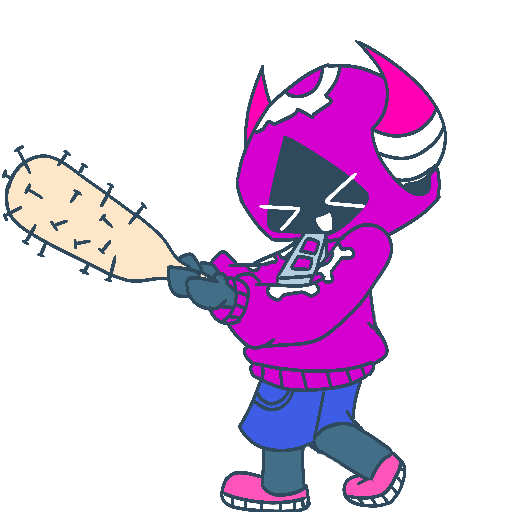
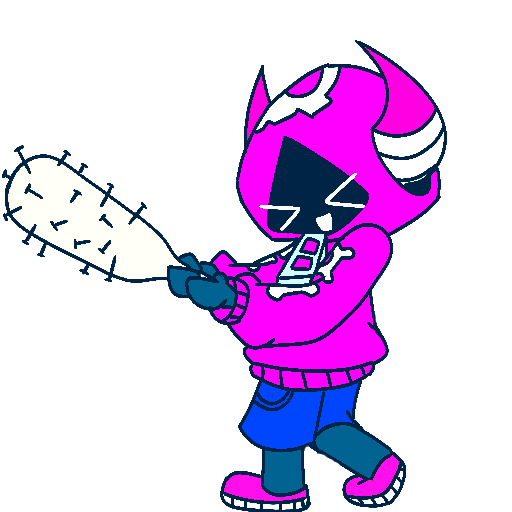
画像の色味の調整とready状態の追加

Changed region(s): [[0.0, 0.0625, 0.875, 1.0]]

diff --git a/src/chara.ts b/src/chara.ts
@@ -1,7 +1,7 @@
 import * as THREE from "three";
 import { getGameState, rootClock, scene } from "./main";
 
-type CharaState = "normal" | "swing" | "gameOver";
+type CharaState = "normal" | "ready" | "swing" | "gameOver";
 
 export let charaState: CharaState = "normal";
 
@@ -12,6 +12,8 @@ const normal2Texture = new THREE.TextureLoader().load("chara/normal2.png");
 const hitTexture = new THREE.TextureLoader().load("chara/hit.png");
 const overTexture = new THREE.TextureLoader().load("chara/over.png");
 const over2Texture = new THREE.TextureLoader().load("chara/over2.png");
+const readyTexture = new THREE.TextureLoader().load("chara/ready.png");
+const ready2Texture = new THREE.TextureLoader().load("chara/ready2.png");
 
 const spriteMaterialColor = "#ffffff";
 const normalMaterial = new THREE.SpriteMaterial({
@@ -50,6 +52,20 @@ const over2Material = new THREE.SpriteMaterial({
   alphaTest: 0.5,
   fog: false,
 });
+const readyMaterial = new THREE.SpriteMaterial({
+  map: readyTexture,
+  color: spriteMaterialColor,
+  transparent: true,
+  alphaTest: 0.5,
+  fog: false,
+});
+const ready2Material = new THREE.SpriteMaterial({
+  map: ready2Texture,
+  color: spriteMaterialColor,
+  transparent: true,
+  alphaTest: 0.5,
+  fog: false,
+});
 
 const sprite = new THREE.Sprite(normalMaterial);
 sprite.scale.set(6, 6, 1);
@@ -59,10 +75,39 @@ let spriteChangeStack = 0;
 export const addChara = () => {
   sprite.position.set(charaPos.x, charaPos.y, charaPos.z);
   scene.add(sprite);
-  charaNormal();
+  charaReady();
 };
 
 export const isLockedSpriteAmongSwing = false;
+
+export const charaReady = () => {
+  const changeSpan = 1;
+  const timeTriggered = rootClock.getElapsedTime();
+  let timeChanged = timeTriggered;
+  let isSpriteTwo = false;
+  sprite.material = readyMaterial;
+  charaState = "ready";
+
+  const spriteChange = () => {
+    console.log();
+    if (charaState === "ready") {
+      requestAnimationFrame(spriteChange);
+
+      if (rootClock.getElapsedTime() - timeChanged > changeSpan) {
+        timeChanged = rootClock.getElapsedTime();
+        if (isSpriteTwo) {
+          isSpriteTwo = false;
+          sprite.material = readyMaterial;
+        } else {
+          isSpriteTwo = true;
+          sprite.material = ready2Material;
+        }
+      }
+    }
+  };
+
+  spriteChange();
+};
 
 export const charaNormal = () => {
   const changeSpan = 1;

diff --git a/src/countdown.ts b/src/countdown.ts
@@ -1,3 +1,4 @@
+import { charaNormal, charaReady } from "./chara";
 import { gameClock, setGameState } from "./main";
 
 const countdownText = document.getElementById("countdown-text");
@@ -6,6 +7,7 @@ const sleep = (ms: number) => new Promise((resolve) => setTimeout(resolve, ms));
 
 export const countDown = async () => {
   if (countdownText) {
+    charaReady();
     await sleep(1000);
     countdownText.classList.add("countdown-fadein");
     countdownText.textContent = "READY...";
@@ -13,6 +15,7 @@ export const countDown = async () => {
     countdownText.textContent = "GO!!";
     setGameState("playing");
     gameClock.start();
+    charaNormal();
 
     await sleep(800);
     countdownText.classList.add("countdown-fadeout");

diff --git a/src/result.ts b/src/result.ts
@@ -8,7 +8,7 @@ import {
   resetScore,
   setScoreText,
 } from "./ui";
-import { charaGameOver, charaPos, charaNormal } from "./chara";
+import { charaGameOver, charaPos, charaNormal, charaReady } from "./chara";
 import { clamp } from "three/src/math/MathUtils.js";
 import { easeOutSine } from "./utils";
 import { countDown } from "./countdown";
@@ -45,7 +45,7 @@ export const retry = () => {
   resetScore();
   countDown();
   setLastHitTime(0);
-  charaNormal();
+  charaReady();
 };
 
 const cameraMoveResult = () => {
